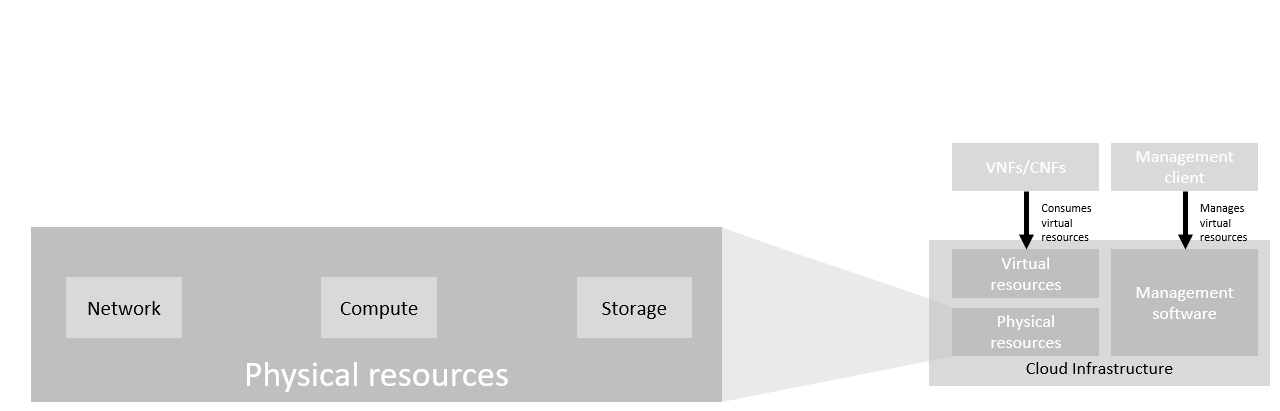
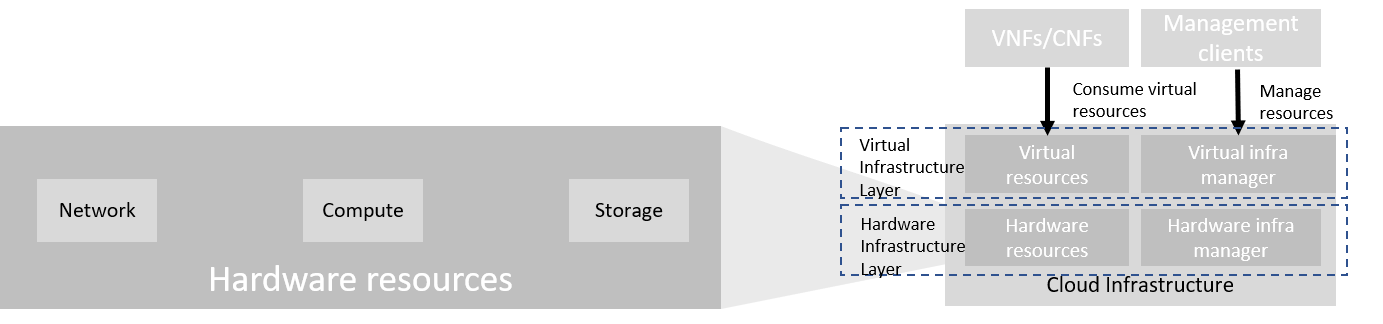
[RM Ch03.3,3.4,3.5] updates (#1789)
* RM Sec 3.3, 3.4 and 3.5 updates

Updates/corrections to 3.3, 3.4 and 3.5 sections. Refresh of terminology, split up Management Software into two parts: VIM, and HIM

* Diagrams to RM Sec 3.3, 3.4, 3.5

Diagrams to RM Sec 3.3, 3.4, 3.5 reflecting changes in PR #1789

* fixed the figure numbers

fixed the figure numbers

* Add files via upload

Source file for diagram 3-4 Virtual Infrastructure Manager

* Add files via upload

Added source file for Fig 3-4 Hardware Infrastructure Manager

* Add files via upload

Added source file for Fog 3-5 Hardware Resources

diff --git a/doc/ref_model/chapters/chapter03.md b/doc/ref_model/chapters/chapter03.md
@@ -8,8 +8,10 @@
   * [3.2.2 Compute](#3.2.2)
   * [3.2.3 Storage](#3.2.3)
   * [3.2.4 Availability Zone](#3.2.4)
-* [3.3 NFVI Management Software](#3.3)
-* [3.4 Physical Resources](#3.4)
+* [3.3 Cloud Infrastructure Management](#3.3)
+  * [3.3.1 Virtual Infrastructure Manager](#3.3.1)
+  * [3.3.2 Hardware Infrastructure Manager](#3.3.2)
+* [3.4 Hardware Infrastructure Resources](#3.4)
 * [3.5 Network](#3.5)
 
 It is necessary to clearly define the infrastructure resources and their capabilities a shared cloud infrastructure (network function virtualisation infrastructure, NFVI) will provide for hosting workloads including virtual network functions (VNFs) and/or cloud-native network functions (CNFs). The lack of a common understanding of which resources and corresponding capabilities a suitable cloud infrastructure should provide may lead to several issues which could negatively impact the time and the cost for on-boarding and maintaining these solutions on top of a virtualised infrastructure. 
@@ -122,54 +124,103 @@ As a logical group with operator-specified criteria, the only mandatory attribut
 <p align="center"><b>Table 3-4:</b> Attributes of availability zones</p>
 
 <a name="3.3"></a>
-## 3.3 NFVI Management Software
+## 3.3 Cloud Infrastructure Management
+Cloud infrastructure provides the capability to manage virtual and hardware resources via Application Programmable Interfaces or graphical user interfaces. 
 
-Network Function Virtualisation Infrastructure provides the capability to manage physical and virtual resources via Application Programmable Interfaces or graphical user interfaces. The management software allows to:
+<a name="3.3.1"></a>
+### 3.3.1 Virtual Infrastructure Manager
+The virtual infrastructure manager allows to:
 
 * setup, manage and delete tenants,
 * setup, manage and delete user- and service-accounts,
 * manage access privileges and
 * provision, manage, monitor and delete virtual resources.
 
-<p align="center"><img src="../figures/ch03-model-management-software.png" alt="NFVI Management Software" Title="NFVI Management Software" width="65%"/></p>
-<p align="center"><b>Figure 3-3:</b> NFVI Management Software.</p>
+<p align="center"><img src="../figures/ch03-model-virtual-manager.png" alt="Virtual Infrastructure Manager" Title="Virtual Infrastructure Manager" width="65%"/></p>
+<p align="center"><b>Figure 3-3:</b> Virtual Infrastructure Manager.</p>
 
- The management software needs to support following functional aspects:
+ The virtual infrastructure manager needs to support the following functional aspects:
 
  **API/UI**
- : an application programming interface / user interface providing access to the NFVI management functions
+ : an application programming interface / user interface providing access to the virtual resource management function
 
 **Catalogue**
-: manages the collection of available templates for virtual resource the NFVI can provide
+: manages the collection of available templates for virtual resource the cloud infrastructure can provide
 
 **Inventory**
-: manages the information related to all the physical and virtual resources of a NFVI
+: manages the information related to virtual resources of a cloud infrastructure
 
 **Scheduler**
 : receives requests via API/UI, provisions and manages virtual resources by coordinating the activities of the compute-, storage- and network resources managers
 
 **Monitoring**
-:  monitors and collects information on all events and the current state of all physical and virtual resources
+:  monitors and collects information on all events and the current state of all virtual resources
 
 **Additional Management Functions**
 : include identity management, access management, policy management (e.g. to enforce security policies), etc.
 
 **Compute Resources Manager**
-: provides a mechanism to provision virtual resources with the help of physical compute resources
+: provides a mechanism to provision virtual resources with the help of hardware compute resources
 
 **Storage Resources Manager**
-: provides a mechanism to provision virtual resources with the help of physical storage resources
+: provides a mechanism to provision virtual resources with the help of hardware storage resources
 
 **Network Resources Manager**
-: provides a mechanism to provision virtual resources with the help of physical network resources
+: provides a mechanism to provision virtual resources with the help of hardware network resources
+
+<a name="3.3.2"></a>
+### 3.3.1 Hardware Infrastructure Manager
+The hardware infrastructure manager allows to:
+* provision, manage, monitor and delete hardware resources (underlay network, physical compute, physical storage, accelerators)
+* manage hardware resource discovery and topology
+* manage equipment 
+* manage hardware infrastructure telemetry and log collection services
+
+<p align="center"><img src="../figures/ch03-model-hardware-manager.png" alt="Hardware Infrastructure Manager" Title="Hardware Infrastructure Manager" width="65%"/></p>
+<p align="center"><b>Figure 3-4:</b> Hardware Infrastructure Manager.</p>
+
+The hardware infrastructure manager needs to support the following functional aspects:
+
+ **API/UI**
+ : an application programming interface / user interface providing access to the hardware resource management functions
+
+**Discovery**
+: discover and manages the information related to hardware resources of a cloud infrastructure
+
+**Equipment**
+: discover and manages the information related to hardware resources of a cloud infrastructure
+
+**Resource Allocation and Composition**
+: creates and allocates abstracted hardware resources
+
+**Monitoring**
+:  monitors and collects information on all events and the current state of all hardware resources
+
+**Topology**
+:  manages topological view of hardware resources
+
+**Additional Management Functions**
+: include identity management, access management, policy management (e.g. to enforce security policies), etc.
+
+**Underlay Network Resources Manager**
+: provides a mechanism to provision hardware resources for the use by the underlay network (e.g. switch fabric, smartNICs)
+
+**Physical Compute Resources Manager**
+: provides a mechanism to provision hardware compute resources
+
+**Physical Storage Resources Manager**
+: provides a mechanism to provision hardware storage resources
+
+**Accelerators**
+: provide a mechanism to provision hardware accelerator services
 
 <a name="3.4"></a>
-## 3.4 Physical Resources
+## 3.4 Hardware Infrastructure Resources
 
-The physical compute, storage and network resources serve as the foundation of the network function virtualisation infrastructure. They are as such not directly exposed to the workloads (VNFs/CNFs).
+The physical compute, storage and network resources serve as the foundation of the cloud infrastructure. They are as such not directly exposed to the workloads (VNFs/CNFs).
 
-<p align="center"><img src="../figures/ch03-model-physical-resources.png" alt="NFVI Physical Infrastructure Resources" Title="NFVI Physical Infrastructure Resources" width="65%"/></p>
-<p align="center"><b>Figure 3-4:</b> NFVI Physical Resources</p>
+<p align="center"><img src="../figures/ch03-model-physical-resources.png" alt="Hardware Infrastructure Resources" Title="Hardware Infrastructure Resources" width="65%"/></p>
+<p align="center"><b>Figure 3-5:</b> Hardware Infrastructure Resources</p>
 
 <a name="3.5"></a>
 ## 3.5 Network
